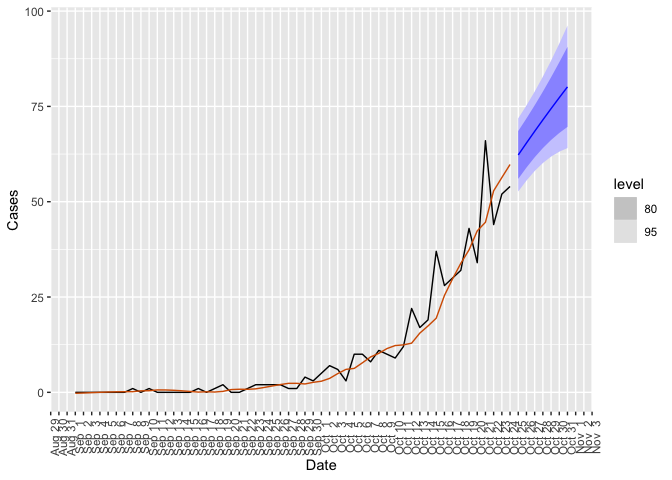
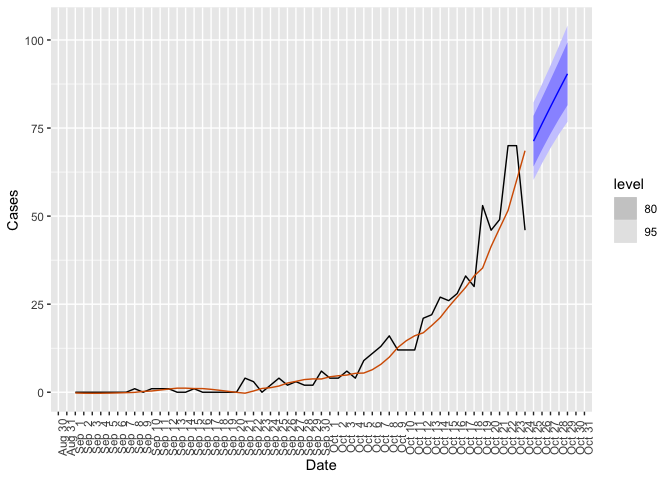
updating supporting docs

diff --git a/data-raw/README.md b/data-raw/README.md
@@ -59,7 +59,7 @@ returned.
 
 ``` r
 result <- epi_forecast(test_data,
-                       look_ahead = 7)
+                       look_ahead = 5)
 ```
 
 First, we can plot the forecast.
@@ -86,13 +86,22 @@ We can also access the forecast values and the confidence intervals.
 result$hilo
 ```
 
-    ## # A tsibble: 7 x 5 [1D]
+    ## # A tsibble: 5 x 5 [1D]
     ##   Date        Mean Level Lower Upper
     ##   <date>     <dbl> <dbl> <dbl> <dbl>
-    ## 1 2023-10-25  62.3    95  52.7  71.9
-    ## 2 2023-10-26  65.4    95  55.5  75.2
-    ## 3 2023-10-27  68.5    95  58.1  78.9
-    ## 4 2023-10-28  71.5    95  60.1  82.8
-    ## 5 2023-10-29  74.4    95  61.8  87.0
-    ## 6 2023-10-30  77.3    95  63.1  91.5
-    ## 7 2023-10-31  80.1    95  64.1  96.2
+    ## 1 2023-10-25  71.3    95  60.3  82.3
+    ## 2 2023-10-26  76.2    95  65.0  87.4
+    ## 3 2023-10-27  81.0    95  69.3  92.8
+    ## 4 2023-10-28  85.8    95  73.3  98.3
+    ## 5 2023-10-29  90.4    95  76.8 104.
+
+And display the training set accuracy measures.
+
+``` r
+result$ts_accuracy
+```
+
+    ## # A tibble: 1 × 10
+    ##   .model                  .type    ME  RMSE   MAE   MPE  MAPE  MASE RMSSE   ACF1
+    ##   <chr>                   <chr> <dbl> <dbl> <dbl> <dbl> <dbl> <dbl> <dbl>  <dbl>
+    ## 1 "fable::ETS(Cases ~ er… Trai…  1.16  5.35  2.86   NaN   Inf 0.357 0.406 0.0300
